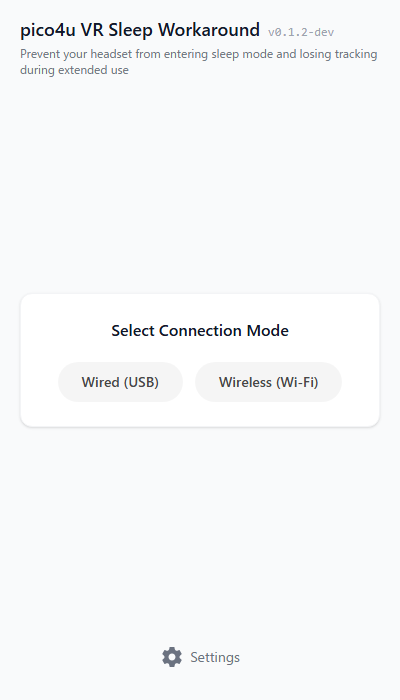
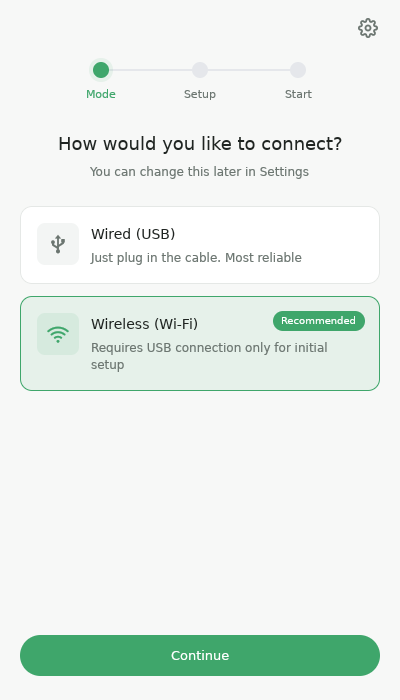
docs: add GPUI screenshots and refine step indicator and choice card badge

diff --git a/src/ui.rs b/src/ui.rs
@@ -267,11 +267,79 @@ impl PicoSleepApp {
             last_window_title: String::new(),
         };
 
-        app.start_background_loops(cx);
-        if should_auto_connect {
-            app.trigger_auto_connect(cx);
+        app.apply_preview_env();
+        if std::env::var_os("PICO4U_PREVIEW").is_none() {
+            app.start_background_loops(cx);
+            if should_auto_connect {
+                app.trigger_auto_connect(cx);
+            }
         }
         app
+    }
+
+    fn apply_preview_env(&mut self) {
+        let Ok(preview) = std::env::var("PICO4U_PREVIEW") else {
+            return;
+        };
+        self.auto_connect_status = AutoConnectStatus::Skipped;
+        self.language = Language::Ja;
+        self.pending_language = Language::Ja;
+        match preview.as_str() {
+            "mode-light" => {
+                self.theme_mode = ThemeMode::Light;
+                self.screen = Screen::Mode;
+                self.selected_mode_card = ConnectionMode::Wireless;
+            }
+            "mode-dark" => {
+                self.theme_mode = ThemeMode::Dark;
+                self.screen = Screen::Mode;
+                self.selected_mode_card = ConnectionMode::Wireless;
+            }
+            "wired-light" => {
+                self.theme_mode = ThemeMode::Light;
+                self.screen = Screen::Operate;
+                self.config.last_connection_mode = Some(ConnectionMode::Wired);
+                self.connection_status = Some(ConnectionStatus {
+                    is_usb_connected: true,
+                    is_wifi_ip_available: false,
+                    wifi_ip: None,
+                    is_adb_tcp_connected: false,
+                });
+                self.is_debug = true;
+            }
+            "wired-dark" => {
+                self.theme_mode = ThemeMode::Dark;
+                self.screen = Screen::Operate;
+                self.config.last_connection_mode = Some(ConnectionMode::Wired);
+                self.connection_status = Some(ConnectionStatus {
+                    is_usb_connected: true,
+                    is_wifi_ip_available: false,
+                    wifi_ip: None,
+                    is_adb_tcp_connected: false,
+                });
+                self.is_debug = true;
+            }
+            "settings-light" => {
+                self.theme_mode = ThemeMode::Light;
+                self.pending_theme = ThemeMode::Light;
+                self.screen = Screen::Mode;
+                self.active_sheet = Some(ActiveSheet::Settings);
+            }
+            "settings-dark" => {
+                self.theme_mode = ThemeMode::Dark;
+                self.pending_theme = ThemeMode::Dark;
+                self.screen = Screen::Mode;
+                self.active_sheet = Some(ActiveSheet::Settings);
+            }
+            "mode-en-light" => {
+                self.language = Language::En;
+                self.pending_language = Language::En;
+                self.theme_mode = ThemeMode::Light;
+                self.screen = Screen::Mode;
+                self.selected_mode_card = ConnectionMode::Wireless;
+            }
+            _ => {}
+        }
     }
 
     fn i18n(&self) -> I18n {
@@ -1061,11 +1129,31 @@ impl PicoSleepApp {
 
         div()
             .w_full()
+            .relative()
             .flex()
             .items_center()
             .justify_between()
             .px_8()
             .py(px(6.0))
+            .child(
+                div()
+                    .absolute()
+                    .top(px(17.0))
+                    .left(px(76.0))
+                    .right(px(76.0))
+                    .h(px(2.0))
+                    .flex()
+                    .child(div().flex_1().h_full().bg(if current_idx >= 1 {
+                        palette.brand
+                    } else {
+                        palette.disabled_bg
+                    }))
+                    .child(div().flex_1().h_full().bg(if current_idx >= 2 {
+                        palette.brand
+                    } else {
+                        palette.disabled_bg
+                    })),
+            )
             .children(steps.into_iter().map(|(idx, label)| {
                 let is_done = idx < current_idx;
                 let is_active = idx == current_idx;
@@ -1087,20 +1175,34 @@ impl PicoSleepApp {
                     .flex()
                     .flex_col()
                     .items_center()
-                    .gap(px(6.0))
+                    .gap(px(4.0))
                     .child(
                         div()
-                            .w(px(18.0))
-                            .h(px(18.0))
+                            .w(px(24.0))
+                            .h(px(24.0))
                             .rounded_full()
-                            .bg(dot_bg)
+                            .bg(if is_active {
+                                palette.brand_tint
+                            } else {
+                                rgba(0x00000000).into()
+                            })
                             .flex()
                             .items_center()
                             .justify_center()
-                            .text_size(px(10.0))
-                            .font_weight(FontWeight::BOLD)
-                            .text_color(gpui::white())
-                            .child(if is_done { "✓" } else { "" }),
+                            .child(
+                                div()
+                                    .w(px(16.0))
+                                    .h(px(16.0))
+                                    .rounded_full()
+                                    .bg(dot_bg)
+                                    .flex()
+                                    .items_center()
+                                    .justify_center()
+                                    .text_size(px(10.0))
+                                    .font_weight(FontWeight::BOLD)
+                                    .text_color(gpui::white())
+                                    .child(if is_done { "✓" } else { "" }),
+                            ),
                     )
                     .child(
                         div()
@@ -1534,6 +1636,7 @@ impl PicoSleepApp {
 
         div()
             .id(id)
+            .relative()
             .w_full()
             .p_4()
             .rounded_xl()
@@ -1542,59 +1645,58 @@ impl PicoSleepApp {
             .bg(bg_col)
             .cursor_pointer()
             .on_click(on_click)
+            .when_some(badge, |el, badge_text| {
+                el.child(
+                    div()
+                        .absolute()
+                        .top(px(14.0))
+                        .right(px(14.0))
+                        .px_2()
+                        .py(px(2.0))
+                        .rounded_full()
+                        .bg(palette.brand)
+                        .text_size(px(10.0))
+                        .font_weight(FontWeight::BOLD)
+                        .text_color(gpui::white())
+                        .child(badge_text.to_string()),
+                )
+            })
             .child(
                 div()
                     .w_full()
                     .flex()
                     .items_start()
-                    .justify_between()
                     .gap_3()
                     .child(
                         div()
+                            .p(px(10.0))
+                            .rounded_lg()
+                            .bg(icon_bg)
+                            .flex_shrink_0()
+                            .child(svg().path(icon_path).size(px(22.0)).text_color(icon_col)),
+                    )
+                    .child(
+                        div()
                             .flex()
-                            .items_start()
-                            .gap_3()
+                            .flex_col()
+                            .gap_1()
                             .flex_1()
+                            .min_w(px(0.0))
                             .child(
-                                div().p(px(10.0)).rounded_lg().bg(icon_bg).child(
-                                    svg().path(icon_path).size(px(22.0)).text_color(icon_col),
-                                ),
+                                div()
+                                    .text_size(px(14.0))
+                                    .font_weight(FontWeight::BOLD)
+                                    .text_color(palette.text)
+                                    .child(title.to_string()),
                             )
                             .child(
                                 div()
-                                    .flex()
-                                    .flex_col()
-                                    .gap_1()
-                                    .flex_1()
-                                    .child(
-                                        div()
-                                            .text_size(px(14.0))
-                                            .font_weight(FontWeight::BOLD)
-                                            .text_color(palette.text)
-                                            .child(title.to_string()),
-                                    )
-                                    .child(
-                                        div()
-                                            .text_size(px(12.0))
-                                            .line_height(px(17.0))
-                                            .text_color(palette.text_muted)
-                                            .child(description.to_string()),
-                                    ),
+                                    .text_size(px(12.0))
+                                    .line_height(px(17.0))
+                                    .text_color(palette.text_muted)
+                                    .child(description.to_string()),
                             ),
-                    )
-                    .when_some(badge, |el, badge_text| {
-                        el.child(
-                            div()
-                                .px_2()
-                                .py(px(2.0))
-                                .rounded_full()
-                                .bg(palette.brand)
-                                .text_size(px(10.0))
-                                .font_weight(FontWeight::BOLD)
-                                .text_color(gpui::white())
-                                .child(badge_text.to_string()),
-                        )
-                    }),
+                    ),
             )
             .into_any_element()
     }
